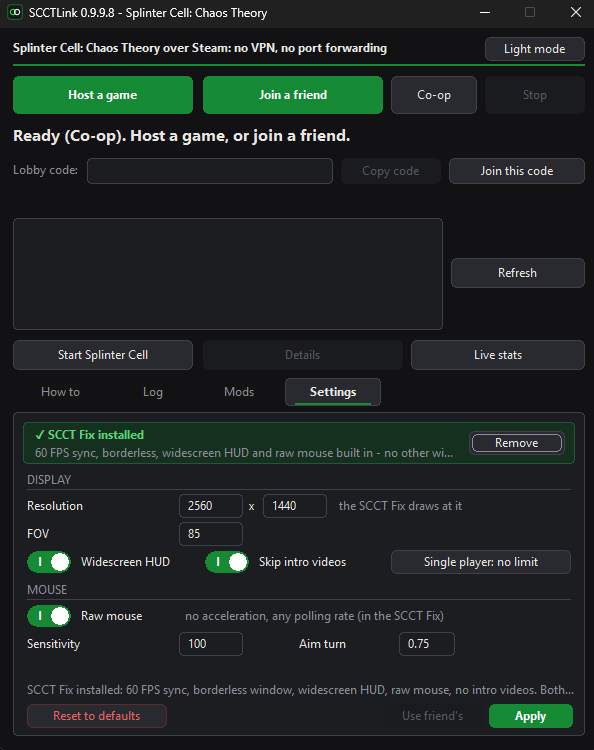
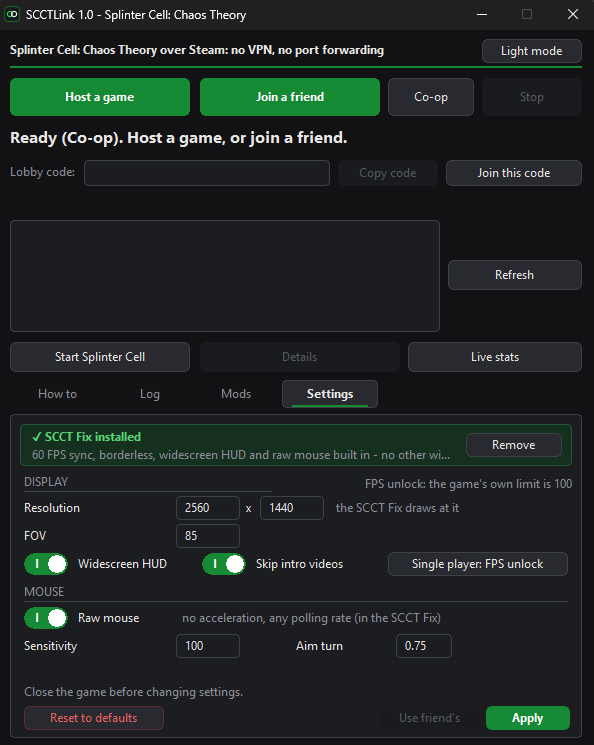
README: Settings screenshots from 1.0

diff --git a/README.md b/README.md
@@ -172,7 +172,7 @@ change anything here: it saves its own settings when it closes.
 - **Per class:** FOV for spies and mercenaries.
 
 <p align="center">
-  <img src="docs/images/settings-versus.png" width="420" alt="Settings tab in Versus">
+  <img src="docs/images/settings-versus.png" width="300" alt="Settings tab in Versus">
 </p>
 
 **Reset to defaults** is on the left, **Apply** on the right. The first
